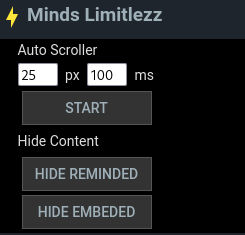
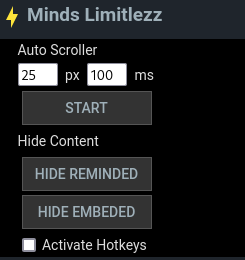
FIX add a checkbox to de/activate hotkeys

diff --git a/minds-limitlezz.user.js b/minds-limitlezz.user.js
@@ -22,28 +22,28 @@
     style.innerHTML = `
     /* Newsfeed page */
     m-newsfeed--boost-rotator,
-	m-featured-content, 
-	.m-newsfeed--boost-sidebar,
-	.m-groupGrid__right.m-pageLayout__pane--right {
-		display:none
-	}
+  m-featured-content, 
+  .m-newsfeed--boost-sidebar,
+  .m-groupGrid__right.m-pageLayout__pane--right {
+    display:none
+  }
 
-	.m-newsfeed--feed.m-pageLayout__pane--main,
-	.m-pageLayout__pane--main.m-pageLayout__pane--main {
-		width: 100%;
-		max-width: 100%;
-	}
+  .m-newsfeed--feed.m-pageLayout__pane--main,
+  .m-pageLayout__pane--main.m-pageLayout__pane--main {
+    width: 100%;
+    max-width: 100%;
+  }
 
-	/* Keeps media only */
-	/* <user_name>?layout=grid */
-	m-feedgrid m-activity__minimalmetrics,
-	m-feedgrid m-activity__ownerblock,
-	m-feedgrid .m-activityContent__mediaDescription,
-	m-feedgrid .m-activityContent__message,
-	m-feedgrid .m-activity__remindDeletedNotice,
-	m-feedgrid .meta.m-rich-embed-has-thumbnail {
-		display:none;
-	}
+  /* Keeps media only */
+  /* <user_name>?layout=grid */
+  m-feedgrid m-activity__minimalmetrics,
+  m-feedgrid m-activity__ownerblock,
+  m-feedgrid .m-activityContent__mediaDescription,
+  m-feedgrid .m-activityContent__message,
+  m-feedgrid .m-activity__remindDeletedNotice,
+  m-feedgrid .meta.m-rich-embed-has-thumbnail {
+    display:none;
+  }
 
   /* Fix margin-bottom for adding Minds Limitlezz Widget */
   m-sidebarmore__trigger {
@@ -79,7 +79,7 @@
   }
 
   .minds-limitlezz-widget-auto-scroller .button.green,
-	.minds-limitlezz-widget-auto-scroller .button.red-view {
+  .minds-limitlezz-widget-auto-scroller .button.red-view {
     display: block;
   }
   
@@ -93,7 +93,7 @@
   }
 
   .minds-limitlezz-widget-auto-scroller .button.red:hover,
-	.minds-limitlezz-widget-auto-scroller .button.red-view:hover {
+  .minds-limitlezz-widget-auto-scroller .button.red-view:hover {
     color: red;
     border-color: red;
   }
@@ -138,6 +138,7 @@
                 </br>
                 <a id="hide-reminded" class="marr4 button red-view">HIDE REMINDED</a>
                 <a id="hide-embeded" class="marr4 button red-view">HIDE EMBEDED</a>
+								<input id="activate-hotkeys" type="checkbox"> <span>Activate Hotkeys</span>
             </div>
         </div>
     `;
@@ -151,7 +152,8 @@
       const panel = widget.nextElementSibling;
       if (panel.style.display === "block") {
         panel.style.display = "none";
-      } else {
+      }
+      else {
         panel.style.display = "block";
       }
     });
@@ -167,12 +169,14 @@
     const autoTime = document.getElementById("auto-time");
     const autoStart = document.getElementById("auto-start");
     const autoStop = document.getElementById("auto-stop");
+    const activateHotkeys = document.getElementById("activate-hotkeys");
 
     let stopAuto,
       timeInMs = 100,
       distanceInPx = 25,
-      state = 0;
-    
+      state = 0,
+      checked = false;
+
     const start = () => {
       //document.body.scrollHeight scrollTo
       stopAuto = setInterval(() => window.scrollBy(0, distanceInPx), timeInMs);
@@ -180,7 +184,7 @@
       autoStop.style.display = "block";
       state = 1;
     }
-    
+
     const stop = () => {
       clearInterval(stopAuto);
       autoStop.style.display = "none";
@@ -194,6 +198,9 @@
     autoTime.addEventListener("change", (el) => {
       timeInMs = el.target.value;
     });
+    activateHotkeys.addEventListener("change", (el) => {
+      checked = el.target.checked;
+    });
     autoStart.addEventListener("click", () => {
       start();
     });
@@ -201,16 +208,19 @@
       stop();
     });
 
-    window.onkeydown = (e) => { 
-      if(e.keyCode == 32){
-        if(state === 1) {
-          stop();
-        } else if(state === 0) {
-         	start(); 
+    window.onkeydown = (e) => {
+      if (checked) {
+        if (e.keyCode == 32) {
+          if (state === 1) {
+            stop();
+          }
+          else if (state === 0) {
+            start();
+          }
         }
+        return !(e.keyCode == 32);
       }
-      return !(e.keyCode == 32);
-		};
+    };
   }
 
   function addContentHider() {

diff --git a/README.md b/README.md
@@ -39,7 +39,7 @@ The user acknowledges that it is their responsibility and not that of the develo
 
 ### Version 1.2
 
-- can start and stop the *Auto Scroller* with the SPACE key, this deactivates the option to scroll using the SPACE key
+- can start and stop the *Auto Scroller* with the SPACE key. This needs to be activated first. Make sure to deactivate it to use SPACE as expected.
 - can hide reminded content
 - can hide embeded content
 
